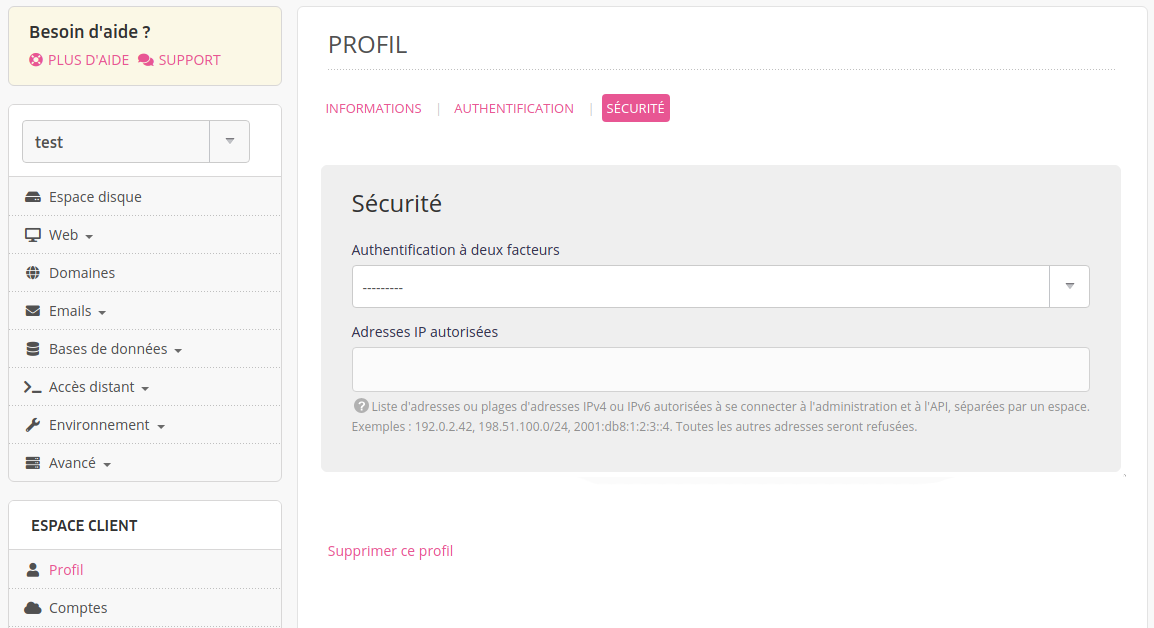
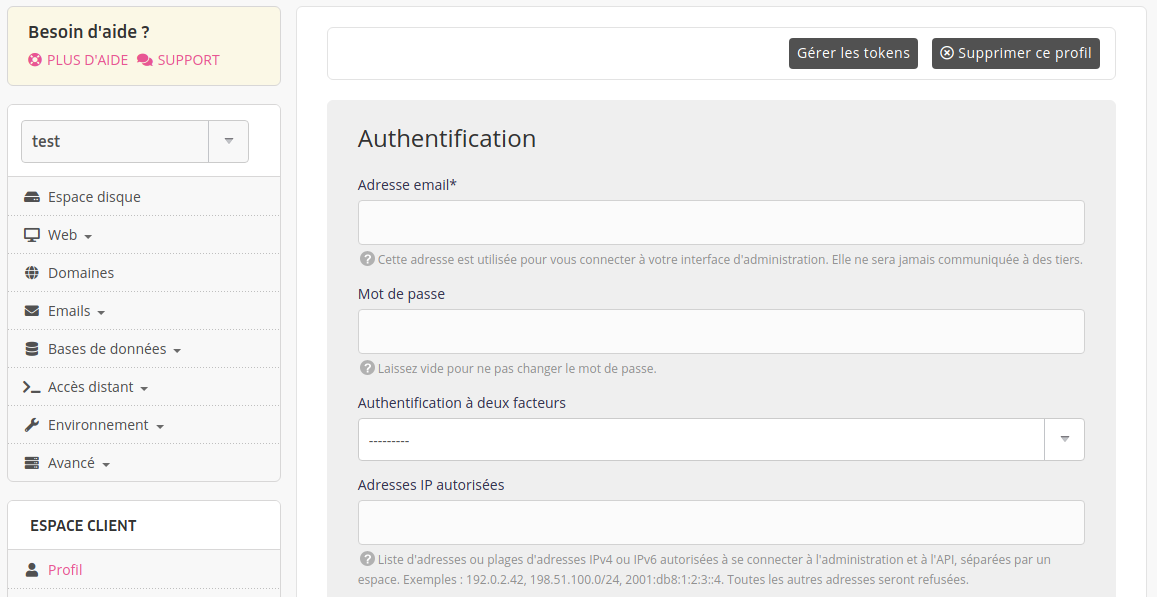
new profile

diff --git a/security/two-factor-authentication/index.fr.md b/security/two-factor-authentication/index.fr.md
@@ -12,7 +12,7 @@ L'[authentification à deux facteurs](https://fr.wikipedia.org/wiki/Authentifica
 
 La technologie choisie par alwaysdata est l'algorithme [Time-based One Time Password](https://en.wikipedia.org/wiki/Time-based_One-time_Password_algorithm) (TOTP) : **partage d'un code secret individuel et à usage unique** entre notre base de données et les applications d'authentification forte clientes.
 
-Pour l'utiliser, rendez-vous dans **Profil > Sécurité** pour activer l'_Authentification à deux facteurs_.
+Pour l'utiliser, rendez-vous dans **Profil** pour activer l'_Authentification à deux facteurs_.
 {{< fig "images/profile-security.fr.png" >}}
 Cela vous donnera accès à vos codes personnels (code secret et QR code).
 

diff --git a/security/two-factor-authentication/index.en.md b/security/two-factor-authentication/index.en.md
@@ -9,7 +9,7 @@ tags = ["2fa", "profil", "security"]
 
 The technology chosen by alwaysdata is a [Time-based One Time Password](https://en.wikipedia.org/wiki/Time-based_One-time_Password_algorithm) (TOTP) algorithm: **sharing an individual and single use secret code** between our database and the client secure authentication applications.
 
-To use it, go to **Profile > Security** to activate *Two factor
+To use it, go to **Profile** to activate *Two factor
 authentication*.
 
 {{< fig "images/profile-security.en.png" >}} This will allow you access to your personal secret code and QR code.

diff --git a/security/ip-access-authorization/index.fr.md b/security/ip-access-authorization/index.fr.md
@@ -6,7 +6,7 @@ hidden = true
 tags = ["profil", "sécurité"]
 +++
 
-Pour permettre l'accès à l'interface d'administration alwaysdata à seulement certaines IP, rendez-vous dans **Profil > Sécurité**.
+Pour permettre l'accès à l'interface d'administration alwaysdata à seulement certaines IP, rendez-vous dans **Profil**.
 {{< fig "images/profile-security.fr.png" >}}
 
 L'accès sera bloqué à toute autre connexion venant d'IP non renseignée.

diff --git a/security/ip-access-authorization/index.en.md b/security/ip-access-authorization/index.en.md
@@ -5,7 +5,7 @@ hidden = true
 tags = ["profile", "security"]
 +++
 
-To allow access to the alwaysdata administration interface by some IP addresses only, go to **Profile > Security**.
+To allow access to the alwaysdata administration interface by some IP addresses only, go to **Profile**.
 
 {{< fig "images/profile-security.en.png" >}}
 
